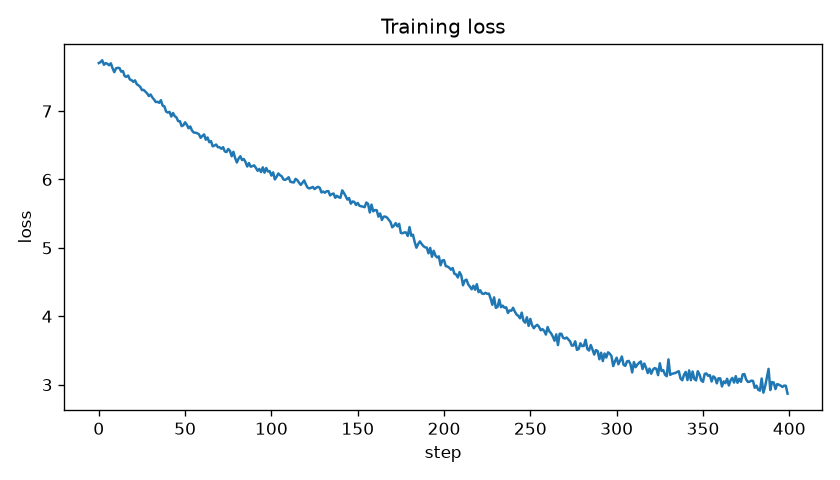
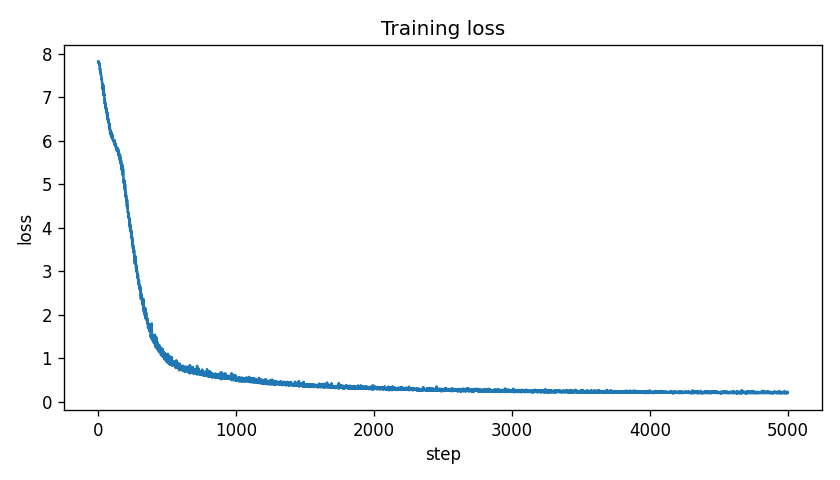
README: real 5000-step Colab loss curve; document small-corpus overfitting

diff --git a/README.md b/README.md
@@ -95,16 +95,19 @@ python -m ownai.cli chat      --domain domains/mario-wii.yaml --generative
 
 [![Open In Colab](https://colab.research.google.com/assets/colab-badge.svg)](https://colab.research.google.com/github/Zlarien/OwnAI/blob/main/notebooks/train_colab.ipynb)
 
-The hand-written backprop genuinely trains — here is the loss on the tiny demo
-corpus (1.05M-parameter model, cosine LR schedule, 400 steps on a CPU laptop):
+The hand-written backprop genuinely trains — here is a real run: a 1.05M-parameter
+model, cosine LR schedule, **5000 steps on a free Colab GPU**, loss 7.8 → 0.2:
 
 ![Training loss](docs/loss_curve.png)
 
-On a small corpus the generative output is still imperfect and can hallucinate —
-this is expected and honestly documented. The **extractive mode is the reliable
-default**; the generative mode proves the transformer works. Training a real
-corpus is best done on a free GPU — see `notebooks/train_colab.ipynb` (NumPy
-transparently becomes CuPy).
+On this tiny demo corpus the model reaches a very low loss because it *memorizes*
+the text (train perplexity ≈ 1.2) — so its free-form generation is still
+incoherent. That is the expected behavior of a large-capacity model on a small
+dataset, and it is why the **extractive mode is the reliable default**: the
+generative mode proves the from-scratch transformer trains and runs, while
+coherent generation needs a much larger corpus (switch the domain to `type: wiki`
+and retrain). Training is best done on a free GPU — see
+`notebooks/train_colab.ipynb`, where NumPy transparently becomes CuPy.
 
 ## Use your own domain
 
